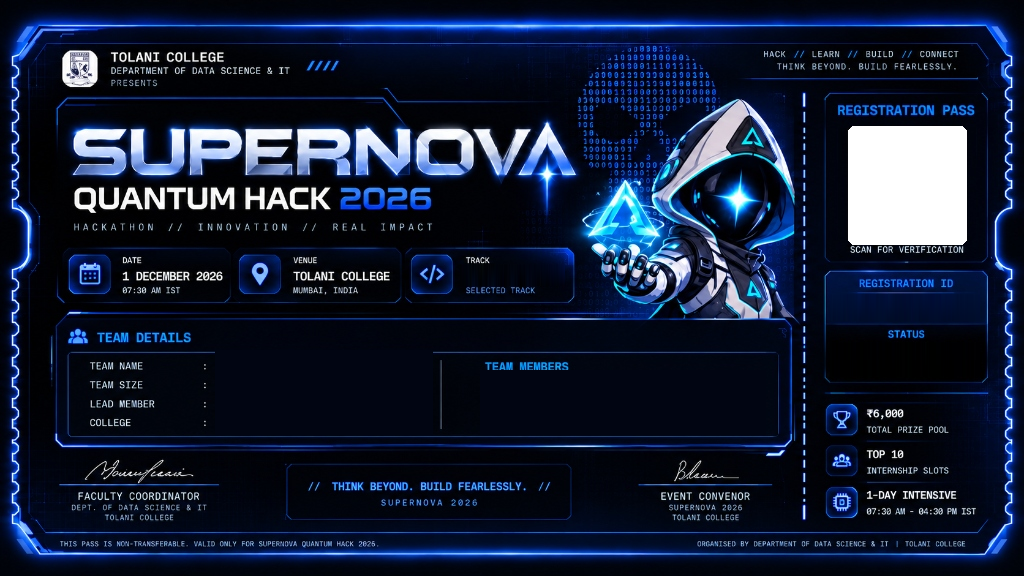
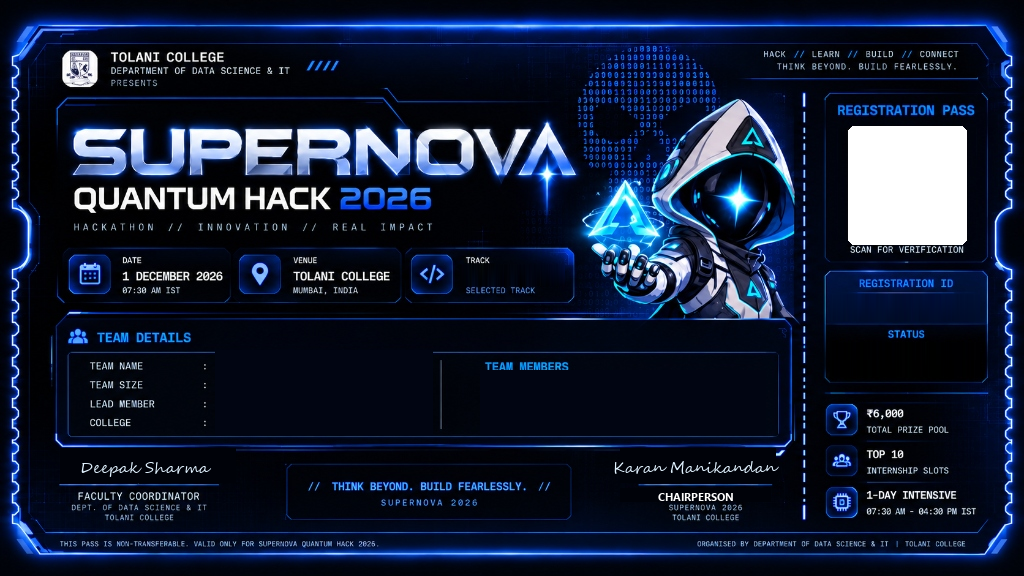
fix(ticket): update signatures to Faculty Coordinator (Deepak Sharma) and Chairperson (Karan Manikandan)

Changed region(s): [[0.5938, 0.7812, 0.7812, 0.875], [0.0625, 0.75, 0.1875, 0.8438]]

diff --git a/frontend/index.html b/frontend/index.html
@@ -2716,7 +2716,7 @@ Tolani College of Commerce, 149-C, Sher-E-Punjab Society, Mahakali Caves Road, A
               <svg width="115" height="4" class="my-1 block">
                 <line x1="0" y1="2" x2="115" y2="2" stroke="#00DFFF" stroke-width="1.5"/>
               </svg>
-              <div class="text-white font-mono text-[8.5px] font-bold uppercase tracking-wider">EVENT CONVENOR</div>
+              <div class="text-white font-mono text-[8.5px] font-bold uppercase tracking-wider">CHAIRPERSON</div>
               <div class="text-[#7dd3fc] font-mono text-[7px] uppercase tracking-wide">SUPERNOVA 2026</div>
               <div class="text-[#7dd3fc] font-mono text-[7px] uppercase tracking-wide">TOLANI COLLEGE</div>
             </div>

diff --git a/backend/pdf_generator.py b/backend/pdf_generator.py
@@ -60,7 +60,7 @@ def generate_pass_pdf(team, members, base_url=None) -> bytes:
     - Cyberpunk Nova Mascot holding the glowing delta holographic icon
     - 3 Info cards: Date, Venue, and dynamic Selected Track
     - Team details panel: Team Name, Size (Duo/Trio), Lead Member, College, and Members roster
-    - Coordinator & Convenor signatures with center motto
+    - Coordinator (Deepak Sharma) & Chairperson (Karan Manikandan) signatures with center motto
     - Right-side verification stub:
       * High-contrast scannable QR code opening the live deployed website
       * Dynamic Registration ID
